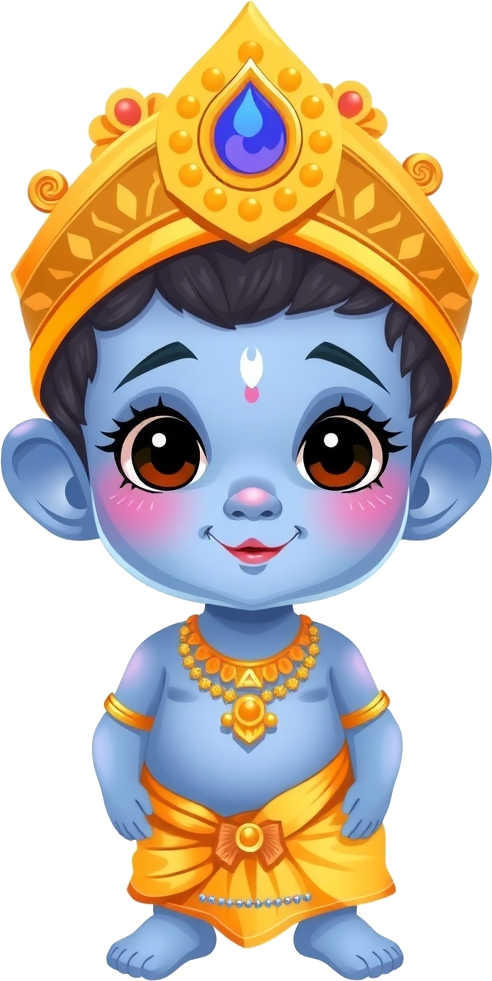
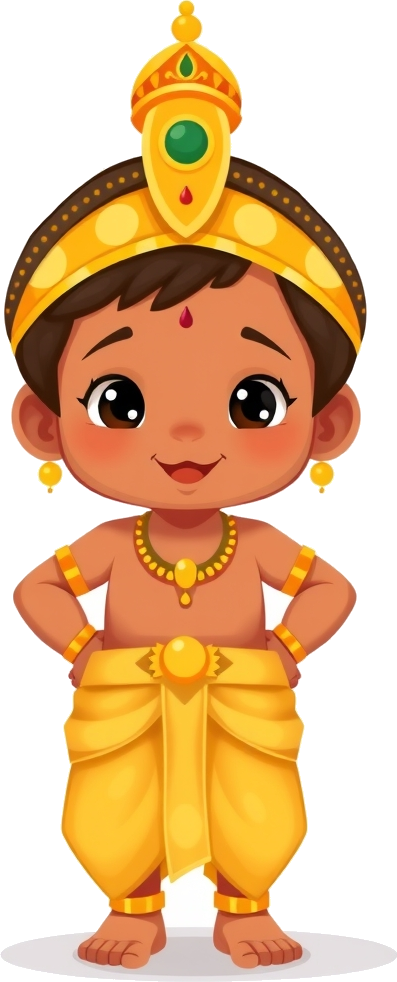
Kadha: Rama redrawn with dusky brown skin (owner), faces re-marked; blue versions kept in art/old
Claude-Session: https://claude.ai/code/session_01MbLPUzC2oRz5QwsbewWdou

diff --git a/channels/kadha/art/generate.py b/channels/kadha/art/generate.py
@@ -9,7 +9,7 @@ STYLE = ("for a children's devotional storybook, cute soft painted digital illus
          "clean outlines, kind gentle expression, standing full body front view, plain pure white background, no text, no frame")
 BGSTYLE = "children's storybook background painting, soft painted digital illustration, warm colours, no people, no text"
 CHARS = {
- "rama": "Young Lord Rama, blue skin, tall ornate golden crown with jewels, golden necklaces and armlets, yellow silk dhoti, saffron angavastram, holding a curved wooden archery bow in one hand, quiver of arrows on his back, ",
+ "rama": "Young Lord Rama, warm dusky brown Indian skin tone (NOT blue skin), gentle face, tall ornate golden crown with jewels, golden necklaces and armlets, yellow silk dhoti, saffron angavastram, holding a curved wooden archery bow in one hand, quiver of arrows on his back, ",
  "sita": "Goddess Sita, young graceful princess, fair skin, red silk saree with golden border, small golden crown, jasmine flowers in hair, gold jewellery, holding a lotus, ",
  "lakshmana": "Young prince Lakshmana, fair skin, golden crown, golden jewellery, orange silk dhoti, red angavastram, holding a curved wooden archery bow, quiver of arrows on back, ",
  "bharata": "Young prince Bharata, wheat brown skin, golden crown, golden jewellery, green silk dhoti, yellow angavastram, hands folded in namaste, ",
@@ -23,7 +23,7 @@ CHARS = {
  "ravana": "King Ravana of Lanka for kids, ten heads in a row each with a golden crown, dark skin, grand red and black royal robes, gold jewellery, proud but not scary, ",
  "vibhishana": "Vibhishana, kind noble demon prince, dark skin, golden crown, white and gold royal robes, hands folded in namaste, ",
  "jatayu": "Jatayu the brave giant eagle, golden brown feathers, wise kind eyes, wings spread, ",
- "rama_child": "Little child prince Rama, about 5 years old, blue skin, small golden crown, yellow dhoti, gold jewellery, cute smile, ",
+ "rama_child": "Little child prince Rama, about 5 years old, warm dusky brown Indian skin tone (NOT blue skin), small golden crown, yellow dhoti, gold jewellery, cute smile, ",
  "lakshmana_child": "Little child prince Lakshmana, about 5 years old, fair skin, small golden crown, orange dhoti, gold jewellery, cute smile, ",
  "bharata_child": "Little child prince Bharata, about 5 years old, wheat skin, small golden crown, green dhoti, gold jewellery, cute smile, ",
  "janaka": "King Janaka of Mithila, wise gentle middle-aged king, short black beard, golden crown, cream and gold royal robes, rudraksha beads, kind smile, ",
